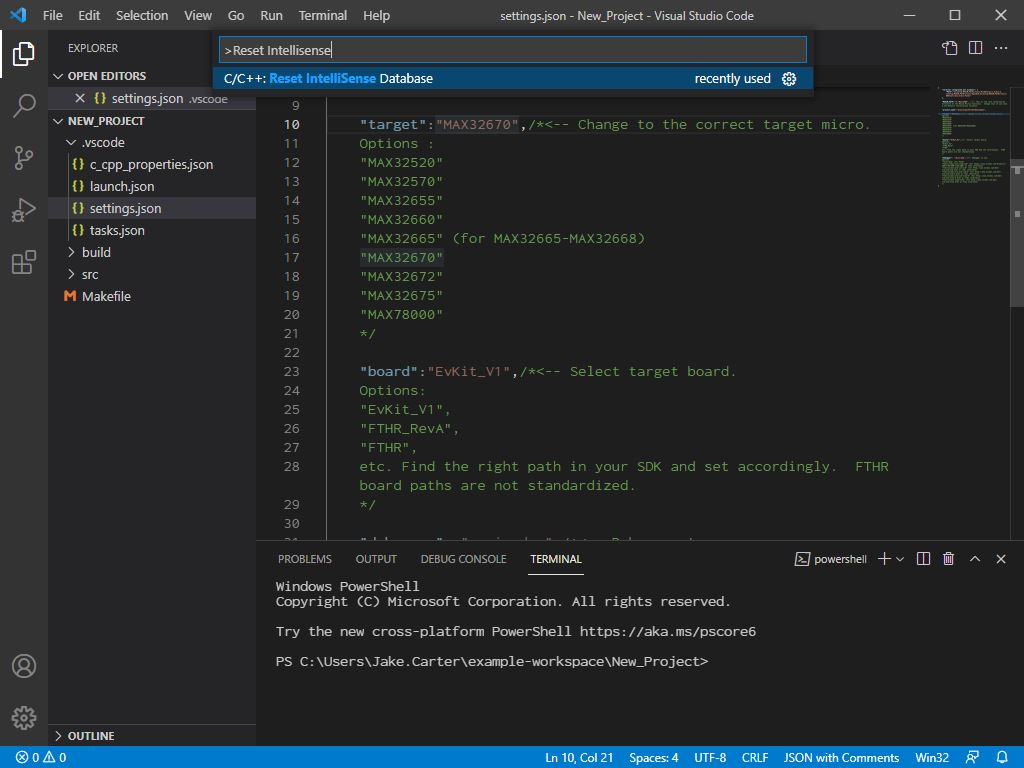
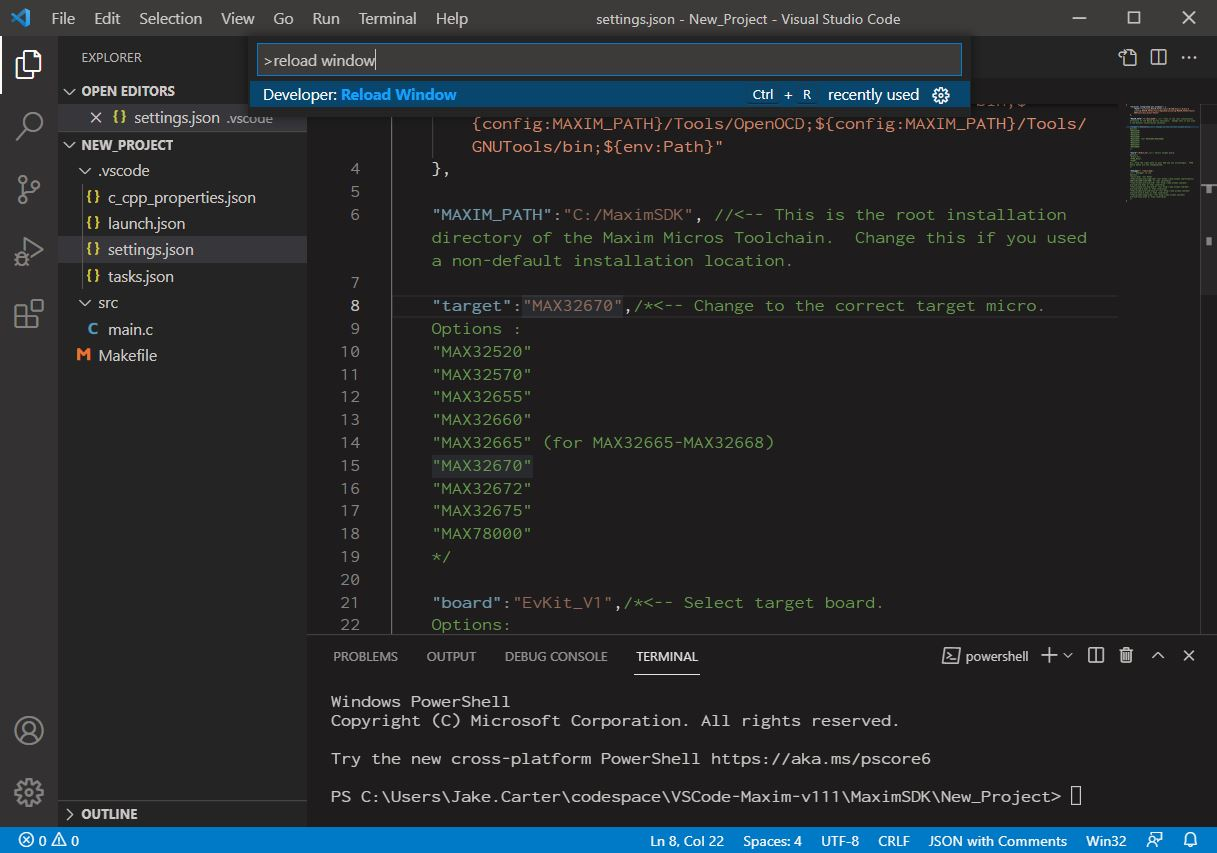
Update User Guide

diff --git a/userguide.md b/userguide.md
@@ -113,7 +113,9 @@ Set the `"target"`, `"board"`, and `"debugger"` variables for your target platfo
 * `"debugger":"cmsis-dap"` (leaving at default)
     * The value "cmsis-dap" is used for the MAX32625PICO debugger adapter, which comes with our EVKITs and is used in the platforms with integrated debuggers such as the MAX32670EVKIT.  Unless you're using a different adapter, such as an Olimex, leave this value at its default.
 
-Save your changes with `CTRL+S` and restart VS Code.  A restart is necessary after changing the target platform so that VS Code re-parses the config file and re-loads Intellisense from scratch.  The command `Reset Intellisense Database` command should, in theory, work (via the command bar `Ctrl+Shift+P`), but in practice doesn't always fully re-parse the config file.  A full restart is guaranteed to get Intellisense reset for the new target platform.
+Save your changes with `CTRL+S` and reload the VS Code window.  A reload is necessary after changing the target platform so that VS Code re-parses the config file and re-loads Intellisense from scratch to use the correct updated filepaths.  The window can be re-loaded with the `Reload Window` developer command.  Use `Ctrl + Shift + P` to open up the developer command prompt.
+
+![Reload window](https://raw.githubusercontent.com/MaximIntegratedTechSupport/VSCode-Maxim/main/img/reset_intellisense.JPG)
 
 Now VS Code is ready to edit, build, and debug source code for the target platform.
 
@@ -126,8 +128,15 @@ Open `main.c`, which can be found in the `src` folder.  Here we can see the sour
 
 <hr>
 
-### 8 - Build the Program
-To build this program, open the build tasks menu with `Ctrl+Shift+B` or `Terminal > Run Build Task...`
+### 8 - Clean the Program
+First, let's ensure that we're starting from a clean slate.  Open the build tasks menu with `Ctrl+Shift+B` or `Terminal > Run Build Task...` and select the "clean-periph" option.  This cleans out the build products from the current project as well as the peripheral drivers in the SDK.  This ensures that the next step compiles everything from scratch.
+
+![Cleaning the program](https://raw.githubusercontent.com/MaximIntegratedTechSupport/VSCode-Maxim/main/img/clean-periph.jpg)
+
+<hr>
+
+### 9 - Build the Program
+Next, we'll build the source code.  Open the build tasks menu again with `Ctrl+Shift+B` or `Terminal > Run Build Task...`
 
 ![Build Tasks](https://raw.githubusercontent.com/MaximIntegratedTechSupport/VSCode-Maxim/main/img/buildtasks.JPG)
 
@@ -149,7 +158,7 @@ See ["Configuring the Makefile"](https://github.com/MaximIntegratedTechSupport/V
 
 <hr>
 
-### 9 - Debug the Program
+### 10 - Debug the Program
 Now that we've seen the program build successfully, let's flash it onto the microcontroller and debug it.
 
 First, open the `main.c` source file and set a breakpoint on the `int main(void)` function.  This is the entry-point into the program and ensures that the debugger will break once the program starts execution.
@@ -170,7 +179,7 @@ Once the debugger connects you should see the breakpoint set on main hit.  VS Co
 
 <hr>
 
-### 10 (optional) - Open a Serial Port to the Micro
+### 11 (optional) - Open a Serial Port to the Micro
 Before we continue the program execution, you'll need to open a serial port to the platform to see the "Hello world!" message and count printed.
 
 Default serial communication settings are:
@@ -182,7 +191,7 @@ Default serial communication settings are:
 
 <hr>
 
-### 11 - Continue the Program
+### 12 - Continue the Program
 Press `F5` or hit the continue button in the debugger menu to continue the program past the breakpoint.
 
 ![Continue button](https://raw.githubusercontent.com/MaximIntegratedTechSupport/VSCode-Maxim/main/img/continue_button.JPG)
@@ -192,13 +201,6 @@ You should see the LED on your microcontroller blinking.  If you have a terminal
 ![Hello World Terminal](https://raw.githubusercontent.com/MaximIntegratedTechSupport/VSCode-Maxim/main/img/helloworld_terminal.JPG)
 
 Feel free to play around in the debugger here (setting different breakpoints, watch variables, stepping into and out of functions, etc.) to get familiar.  When you're ready, you can hit the stop button to quit debugging.
-
-<hr>
-
-### 12 - Clean the Program
-At some point, you'll probably want to clean out the build directory and recompile everything.  You can do so with the `clean` build task.  Additionally, you can force a rebuild of the peripheral drivers on the next build with `clean-periph`.
-
-Run one (or both) build tasks now to see how they work.
 
 <hr>
 
